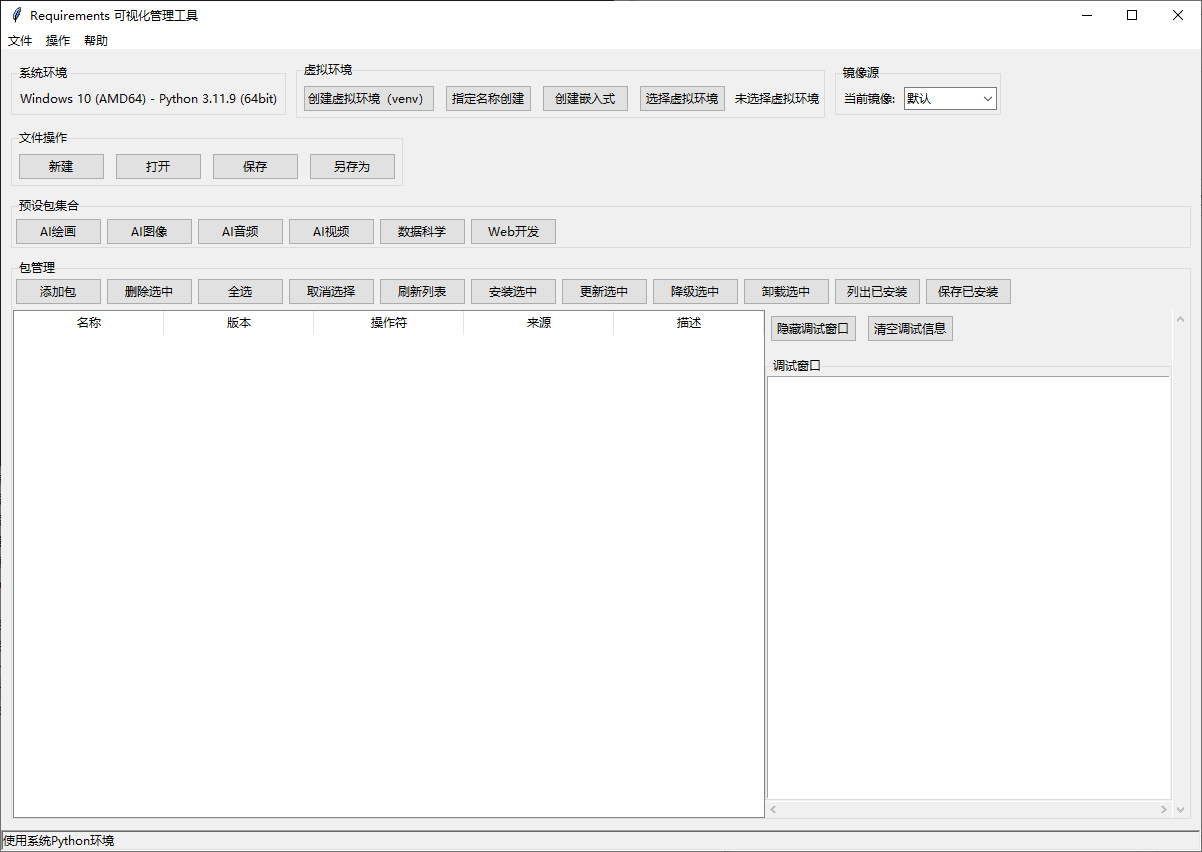
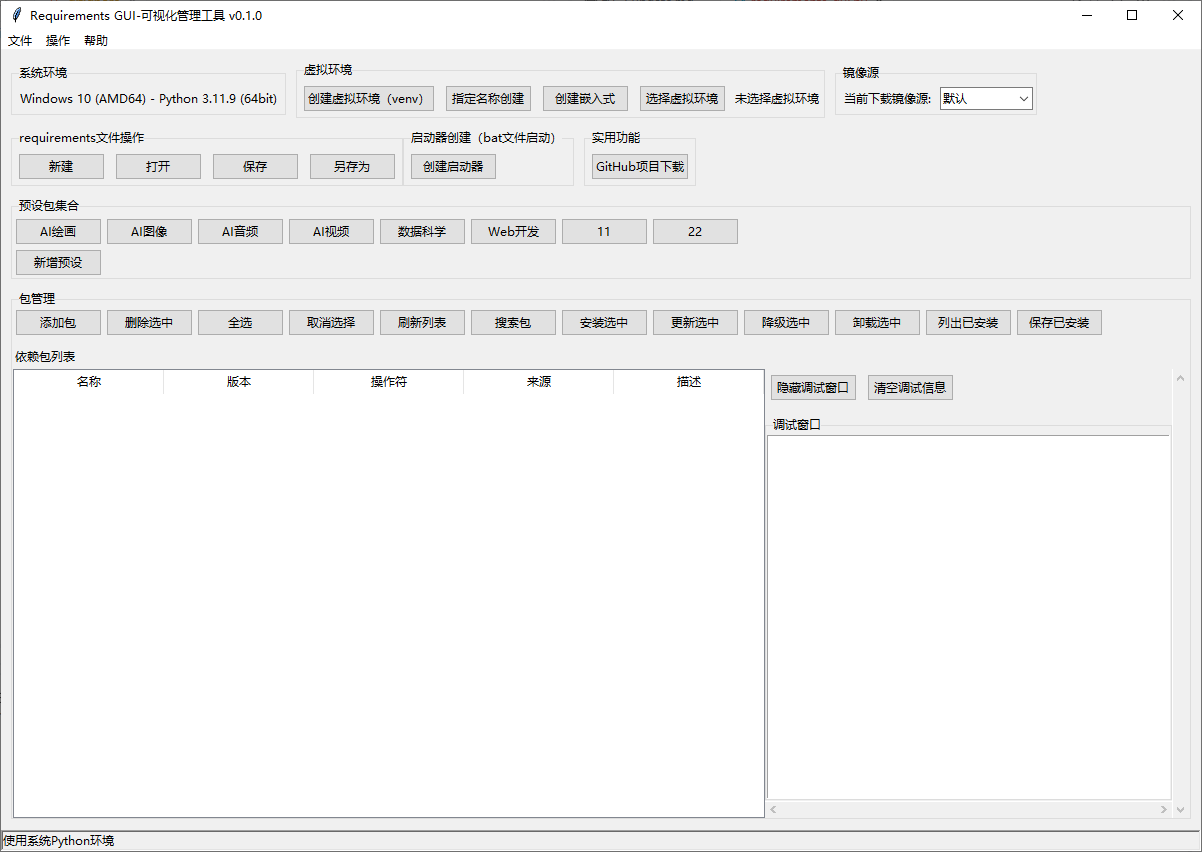
0.4.0-feat(批量操作符): 新增批量操作符管理功能并更新至v0.4.0
- 新增批量操作符对话框，支持统一设置包版本操作符
- 添加工具栏按钮快速访问批量操作功能
- 更新版本号至0.4.0并完善相关文档
- 优化界面布局和交互体验

diff --git a/requirements_gui.py b/requirements_gui.py
@@ -35,7 +35,7 @@ except ImportError:
 class RequirementsManager:
     def __init__(self, root):
         self.root = root
-        self.root.title("Requirements GUI-可视化管理工具 v0.0.1")
+        self.root.title("Requirements GUI-可视化管理工具 v0.4.0")
         self.root.geometry("1200x800")
         
         # 当前打开的requirements文件路径
@@ -179,6 +179,7 @@ class RequirementsManager:
         ttk.Button(toolbar_frame, text="卸载选中", command=self.uninstall_selected).pack(side=tk.LEFT, padx=2)
         ttk.Button(toolbar_frame, text="列出已安装", command=self.list_installed).pack(side=tk.LEFT, padx=2)
         ttk.Button(toolbar_frame, text="保存已安装", command=self.save_installed_as_requirements).pack(side=tk.LEFT, padx=2)
+        ttk.Button(toolbar_frame, text="批量操作符", command=self.batch_operator).pack(side=tk.LEFT, padx=2)
         
         # 依赖包列表标题
         ttk.Label(package_frame, text="依赖包列表").pack(fill=tk.X, pady=(5, 2))
@@ -1486,6 +1487,70 @@ class RequirementsManager:
             except Exception as e:
                 self.update_status(f"保存失败: {str(e)}")
                 messagebox.showerror("错误", f"保存失败: {str(e)}")
+                
+    def batch_operator(self):
+        """批量操作符管理"""
+        try:
+            # 创建批量操作符对话框
+            dialog = BatchOperatorDialog(self.root)
+            result = dialog.result
+            
+            # 如果用户点击了确定
+            if result:
+                operator = result['operator']
+                scope = result['scope']
+                
+                # 获取要应用操作符的包列表
+                if scope == "selected":
+                    # 仅选中项
+                    selected_items = self.tree.selection()
+                    if not selected_items:
+                        messagebox.showwarning("警告", "请至少选择一个包")
+                        return
+                    items_to_update = selected_items
+                else:
+                    # 所有项
+                    items_to_update = self.tree.get_children()
+                    if not items_to_update:
+                        messagebox.showwarning("警告", "没有包可供更新")
+                        return
+                
+                # 更新包的操作符
+                updated_count = 0
+                for item in items_to_update:
+                    # 获取当前包的信息
+                    values = self.tree.item(item, 'values')
+                    if len(values) >= 3:
+                        name = values[0]
+                        version = values[1]
+                        # 更新操作符
+                        self.tree.item(item, values=(name, version, operator))
+                        updated_count += 1
+                
+                # 更新manager中的数据
+                self._sync_manager_with_tree()
+                
+                messagebox.showinfo("成功", f"已更新{updated_count}个包的操作符为'{operator}'")
+                
+        except Exception as e:
+            messagebox.showerror("错误", f"批量操作符设置失败: {str(e)}")
+            
+    def _sync_manager_with_tree(self):
+        """同步树形视图和manager中的数据"""
+        # 清空当前包列表
+        self.packages.clear()
+        
+        # 从树形视图中获取所有项目并重新填充包列表
+        for item in self.tree.get_children():
+            values = self.tree.item(item, 'values')
+            if len(values) >= 3:
+                package = {
+                    'name': values[0],
+                    'version': values[1],
+                    'operator': values[2],
+                    'source': values[3] if len(values) > 3 else 'pypi'
+                }
+                self.packages.append(package)
     
     def search_package(self):
         """搜索包功能"""
@@ -2499,6 +2564,76 @@ class EditPresetDialog:
     def cancel(self):
         """取消按钮回调"""
         self.dialog.destroy()
+
+
+class BatchOperatorDialog:
+    def __init__(self, parent):
+        self.result = None
+        
+        self.top = tk.Toplevel(parent)
+        self.top.title("批量操作符管理")
+        self.top.geometry("350x200")  # 进一步增加窗口大小以确保所有控件都能完整显示
+        self.top.resizable(False, False)  # 禁止调整窗口大小
+        self.top.transient(parent)
+        self.top.grab_set()
+        
+        # 居中显示
+        self.top.geometry("+%d+%d" % (parent.winfo_rootx()+50, parent.winfo_rooty()+50))
+        
+        # 创建输入字段
+        frame = ttk.Frame(self.top)
+        frame.pack(fill=tk.BOTH, expand=True, padx=20, pady=15)
+        
+        # 版本操作符
+        ttk.Label(frame, text="选择操作符:").grid(row=0, column=0, sticky=tk.W, pady=5)
+        self.operator_var = tk.StringVar(value="==")
+        operator_combo = ttk.Combobox(frame, textvariable=self.operator_var, width=27)
+        operator_combo['values'] = ('==', '>=', '<=', '>', '<', '!=', '~=', '')
+        operator_combo.grid(row=0, column=1, sticky=tk.EW, pady=5)
+        operator_combo.state(['readonly'])  # 设置为只读模式
+        
+        # 应用范围
+        ttk.Label(frame, text="应用范围:").grid(row=1, column=0, sticky=tk.W, pady=10)
+        self.scope_var = tk.StringVar(value="selected")
+        scope_frame = ttk.Frame(frame)
+        scope_frame.grid(row=1, column=1, sticky=tk.EW, pady=10)
+        ttk.Radiobutton(scope_frame, text="仅选中项", variable=self.scope_var, value="selected").pack(anchor=tk.W)
+        ttk.Radiobutton(scope_frame, text="所有项", variable=self.scope_var, value="all").pack(anchor=tk.W)
+        
+        # 按钮
+        button_frame = ttk.Frame(frame)
+        button_frame.grid(row=2, column=0, columnspan=2, pady=15)
+        
+        ttk.Button(button_frame, text="确定", command=self.ok, width=10).pack(side=tk.LEFT, padx=10)
+        ttk.Button(button_frame, text="取消", command=self.cancel, width=10).pack(side=tk.LEFT, padx=10)
+        
+        # 配置列权重
+        frame.columnconfigure(1, weight=1)
+        
+        # 绑定回车键和ESC键
+        self.top.bind("<Return>", lambda e: self.ok())
+        self.top.bind("<Escape>", lambda e: self.cancel())
+        
+        # 设置焦点到操作符下拉框
+        operator_combo.focus()
+        
+        # 确保窗口完全绘制后调整位置
+        self.top.update_idletasks()
+        
+        # 等待窗口关闭
+        parent.wait_window(self.top)
+        
+    def ok(self):
+        """确定按钮回调"""
+        self.result = {
+            'operator': self.operator_var.get(),
+            'scope': self.scope_var.get()
+        }
+        self.top.destroy()
+        
+    def cancel(self):
+        """取消按钮回调"""
+        self.top.destroy()
 
 
 class DownloadDialog:

diff --git a/update.md b/update.md
@@ -1,6 +1,38 @@
 # Requirements GUI 更新日志
 
 <details>
+<summary>版本 0.4.0</summary>
+
+## 新增功能
+
+### 批量操作符管理
+- 新增批量操作符管理功能：支持对选中或所有包统一设置版本操作符（==, >=, <=, >, <, !=, ~=, 空）
+- 新增批量操作符对话框：提供直观的界面选择操作符和应用范围
+- 新增工具栏按钮：在包管理工具栏添加"批量操作符"按钮，方便快速访问功能
+
+### 用户界面改进
+- 优化批量操作符对话框界面：改进布局和交互设计，提升用户体验
+- 增强对话框响应性：确保在不同屏幕分辨率下都能正确显示所有控件
+
+## 功能改进
+
+### 包管理增强
+- 批量更新操作符：可一次性为多个包设置相同的操作符，提高操作效率
+- 灵活的应用范围：支持仅对选中项或所有项应用操作符设置
+
+## Bug修复
+
+- 修复了批量操作符对话框按钮显示不完整的问题
+- 修复了界面布局在高DPI屏幕上的显示问题
+
+## 性能优化
+
+- 优化包列表更新机制，提高批量操作的响应速度
+- 改进数据同步逻辑，确保界面与后台数据一致性
+
+</details>
+
+<details>
 <summary>版本 0.3.0</summary>
 
 ## Bug修复

diff --git a/README.md b/README.md
@@ -1,6 +1,10 @@
 # Requirements GUI
 
 一个图形化界面的Python包管理工具，支持requirements文件的创建、编辑和管理。
+## 原生调用
+    基于原生pip命令行工具，增加了可视化的操作界面，用户可以通过界面进行包的管理。适合新手小白快速上手，同时和用户简单的包管理需求。
+    不用专门安装conda等工具，这类适合专业人士的工具。
+
 
 ## 界面预览
 
@@ -15,7 +19,7 @@
 - 支持虚拟环境管理
 - 支持拖放操作导入 requirements 文件
 - 支持导出 requirements 文件
-- 修复了镜像源参数位置问题，确保命令正确执行
+- 支持批量操作符管理，可统一设置包版本操作符
 
 ## 预设包管理
 
